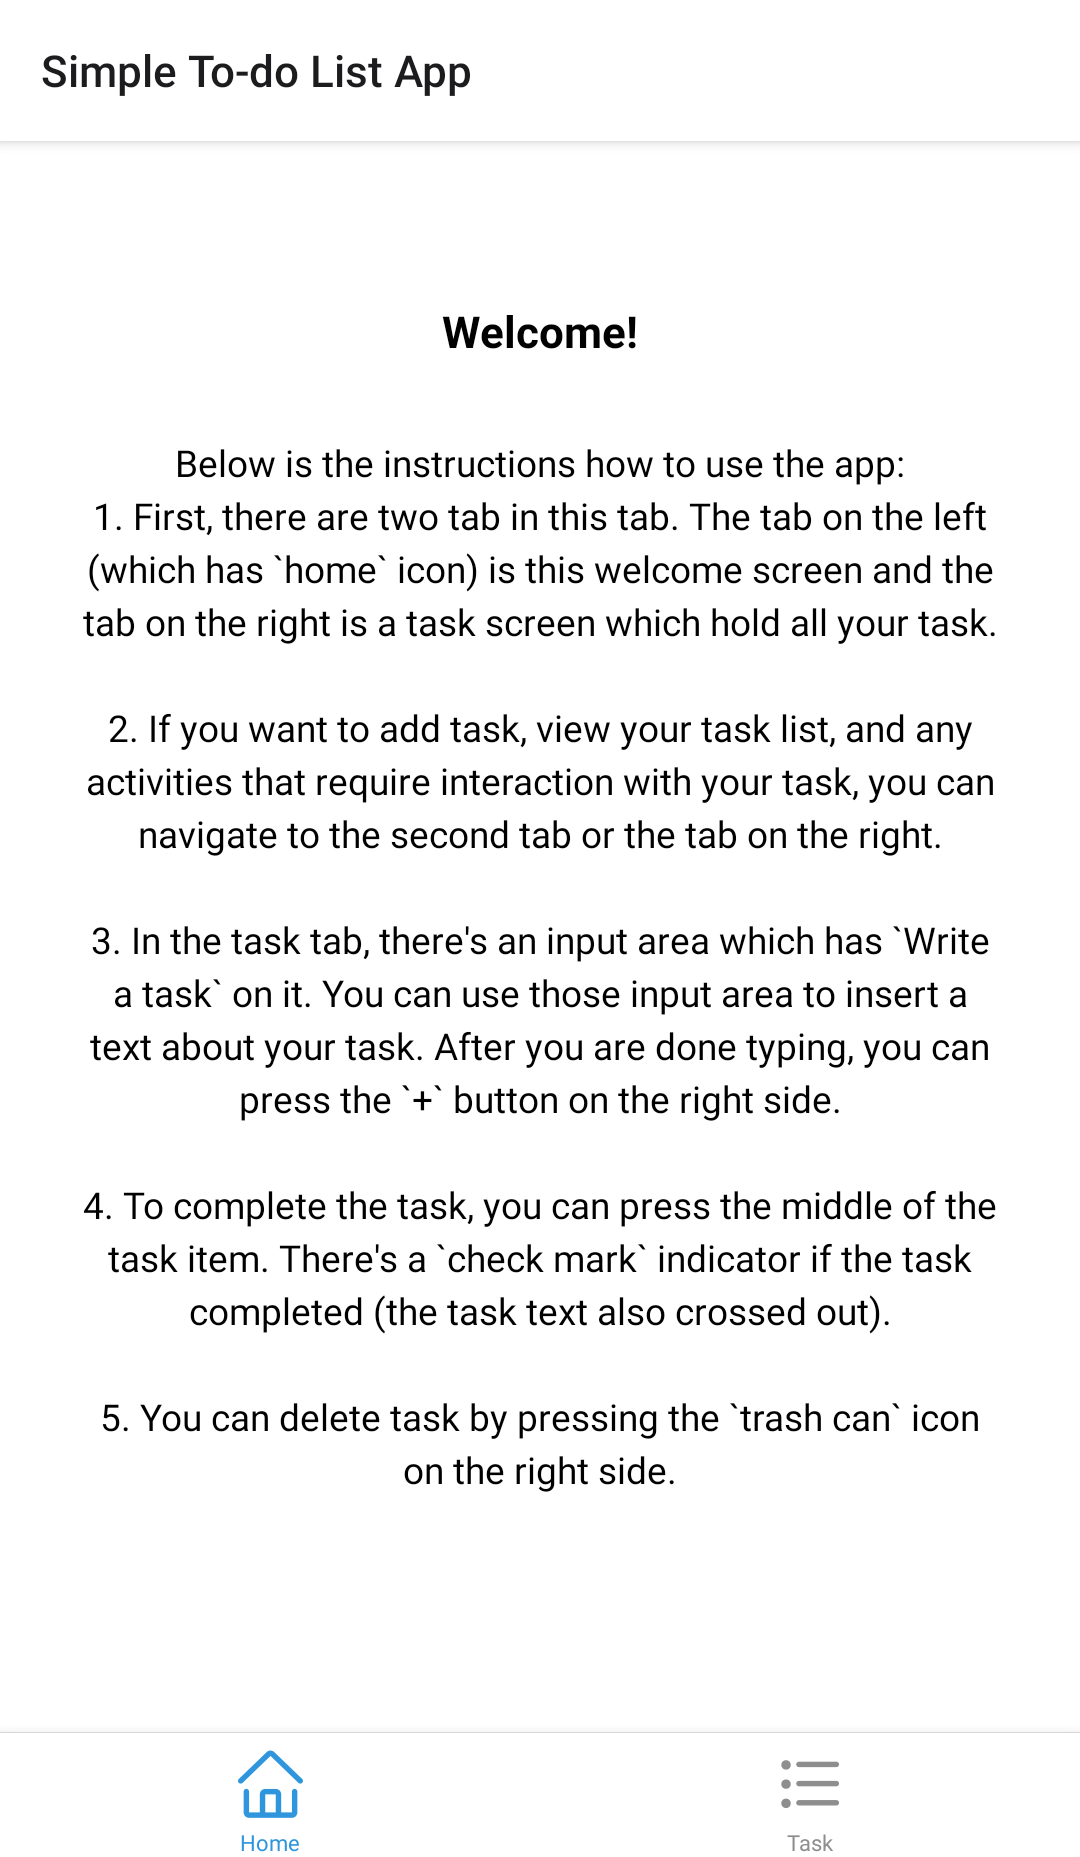
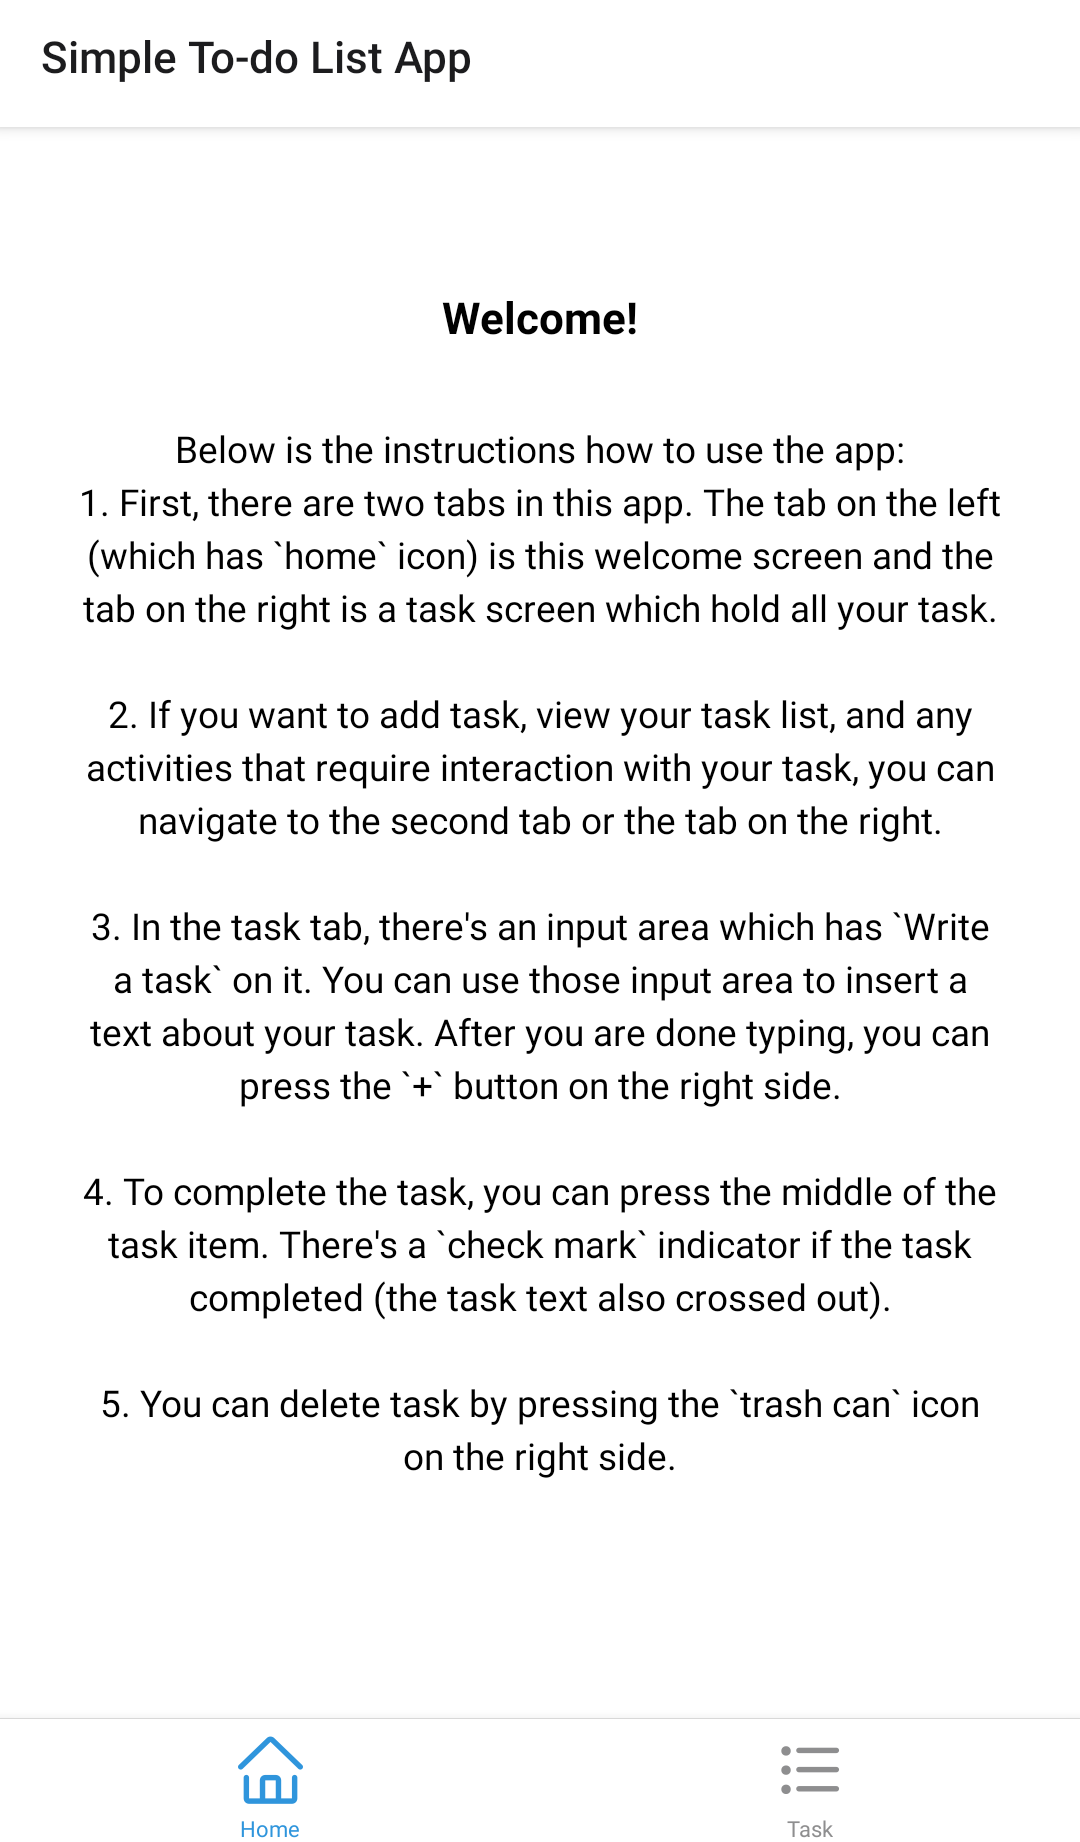
Edit typo: `tab` -> `app`, `tab` -> `tabs`

diff --git a/screens/TabOneScreen.tsx b/screens/TabOneScreen.tsx
@@ -11,7 +11,7 @@ export default function TabOneScreen() {
       </Text>
       <Text style={styles.instructionText}>
         Below is the instructions how to use the app:{"\n"}
-        1. First, there are two tab in this tab. The tab on the left
+        1. First, there are two tabs in this app. The tab on the left
           (which has `home` icon) is this welcome screen and the tab on
           the right is a task screen which hold all your task.{"\n\n"}
         2. If you want to add task, view your task list, and any activities

diff --git a/README.md b/README.md
@@ -115,7 +115,7 @@ npm start
 - Finally, use the demo (the instructions in the next section).
 
 ### Demo instructions
-1. First, there are two tab in this tab. The tab on the left (which has `home` icon) is welcome screen and the tab on the right is a task screen which hold all your task.
+1. First, there are two tabs in this app. The tab on the left (which has `home` icon) is welcome screen and the tab on the right is a task screen which hold all your task.
 2. If you want to add task, view your task list, and any activities that require interaction with your task, you can navigate to the second tab or the tab on the right.
 3. In the task tab, there's an input area which has `Write a task` on it. You can use those input area to insert a text about your task. After you are done typing, you can press the `+` button on the right side.
 4. To complete the task, you can press the middle of the task item. There's a `check mark` indicator if the task completed (the task text also crossed out).
